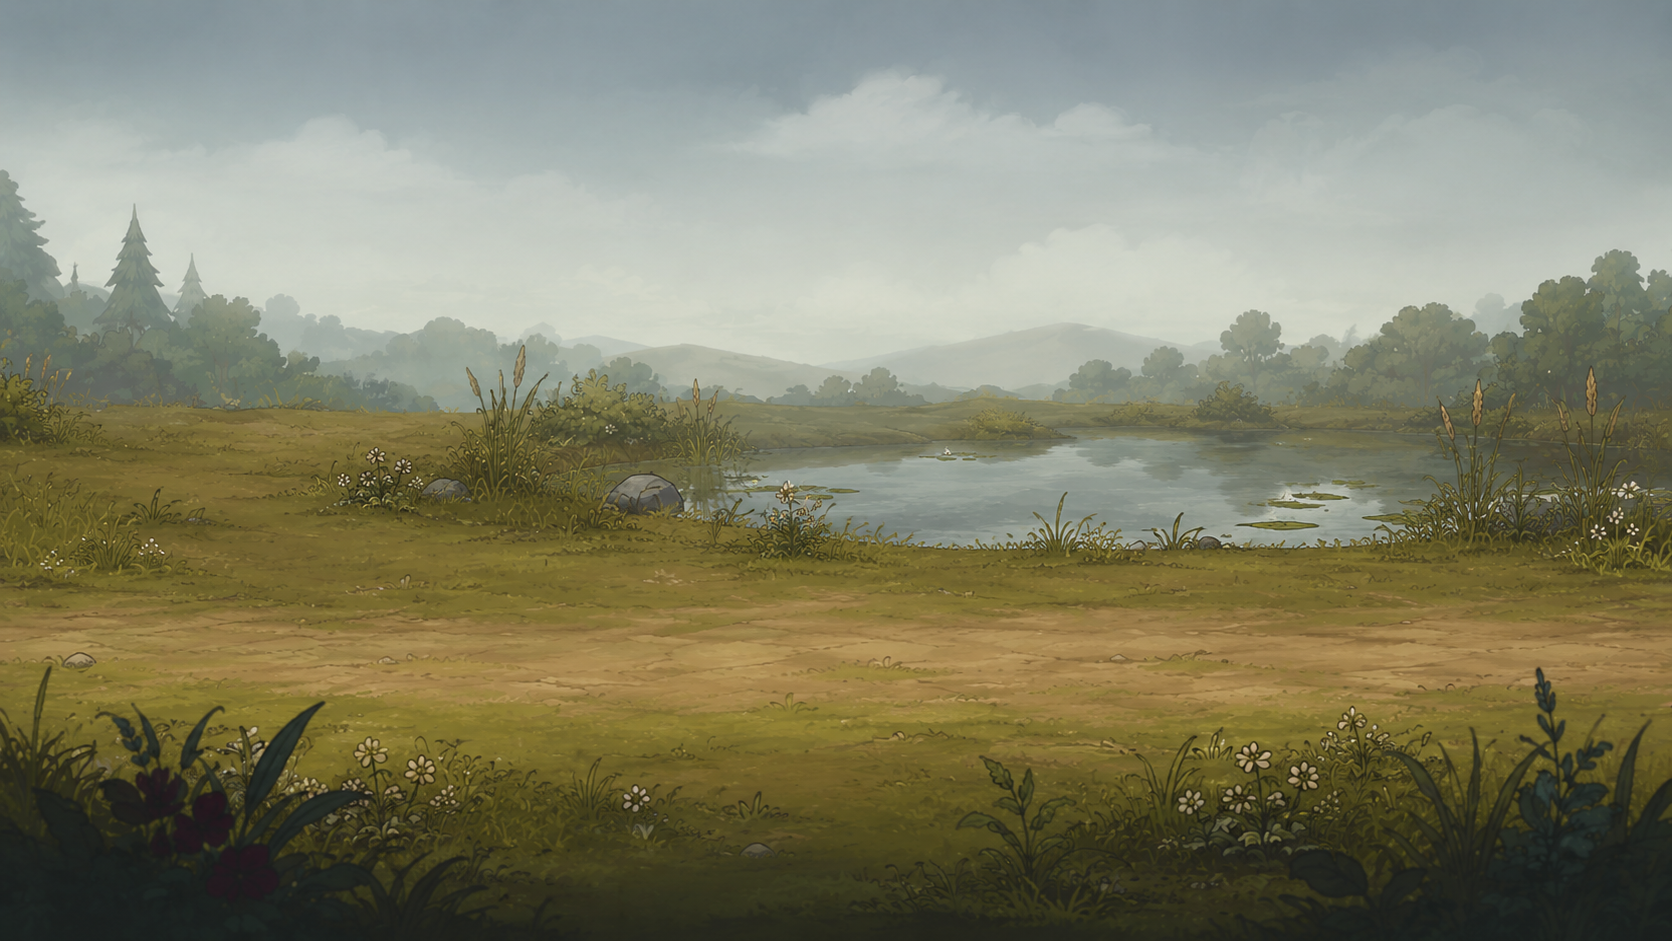
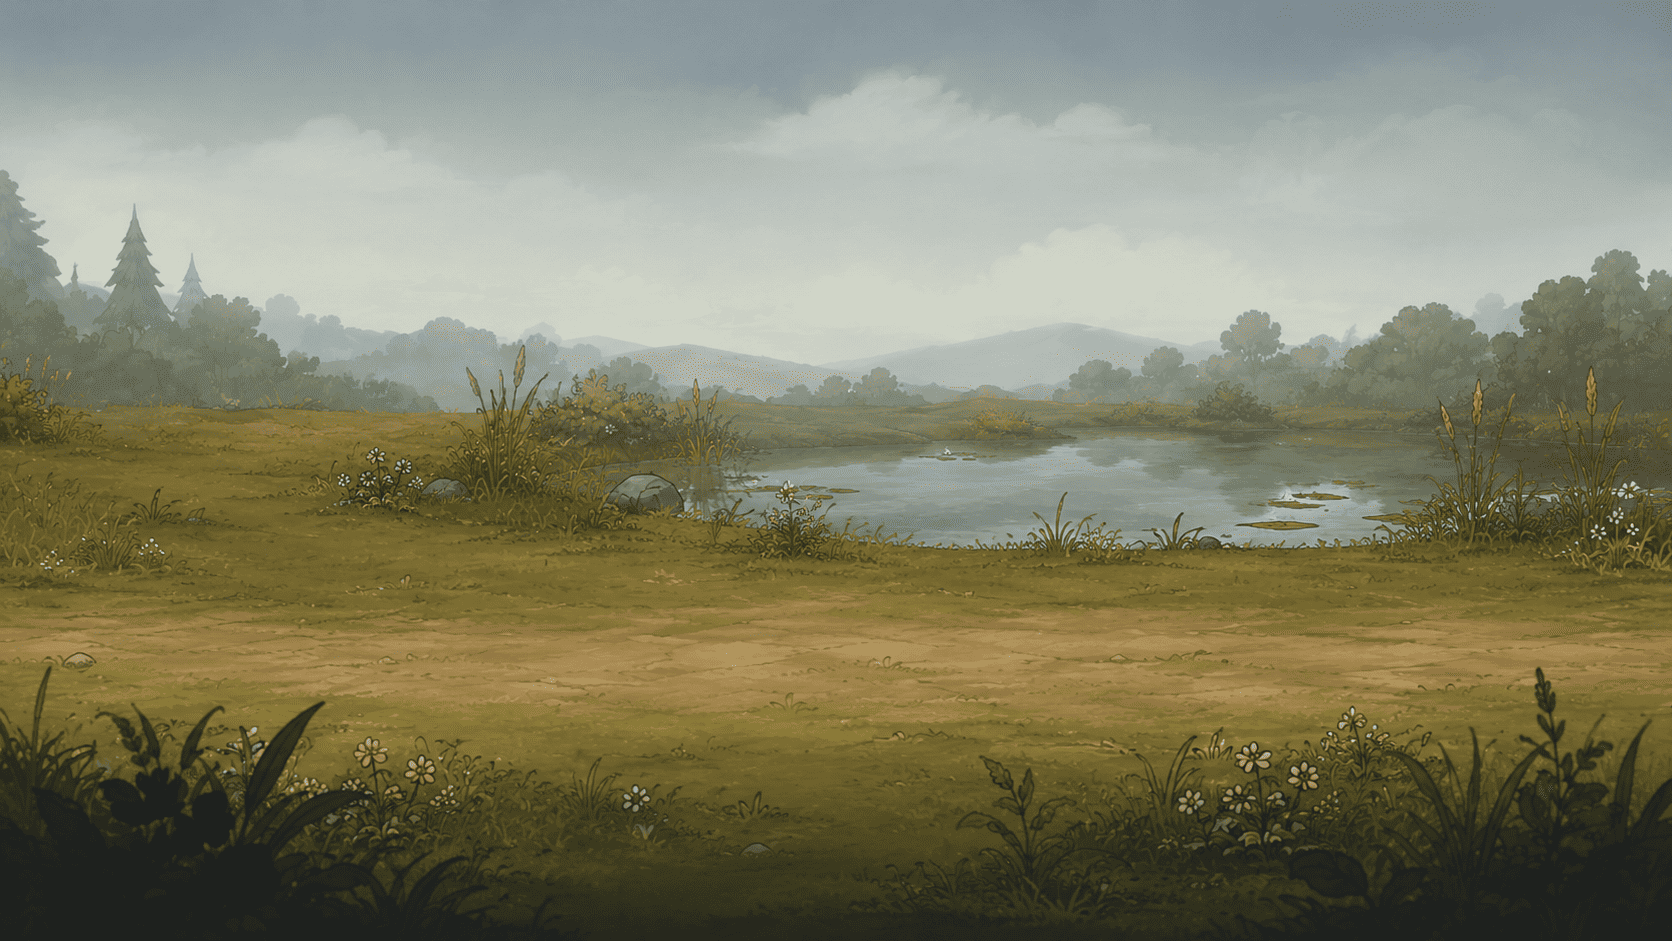
タイトル画像を追加

diff --git a/survival-game/style.css b/survival-game/style.css
@@ -1096,6 +1096,44 @@ h2 {
   margin-bottom: 28px;
 }
 
+/* =========================================================
+   タイトル画面
+========================================================= */
+.title-card {
+  width: min(960px, 96vw);
+  padding: 16px 16px 24px;
+
+  background: rgba(18, 16, 13, 0.78);
+
+  border: 1px solid #6b5a3d;
+  border-radius: 18px;
+
+  box-shadow:
+    0 12px 40px rgba(0, 0, 0, 0.45);
+
+  display: flex;
+  flex-direction: column;
+  align-items: center;
+}
+
+.title-main-visual {
+  width: 100%;
+  max-width: 920px;
+  height: auto;
+
+  display: block;
+  object-fit: contain;
+
+  border-radius: 12px;
+
+  box-shadow:
+    0 8px 24px rgba(0, 0, 0, 0.35);
+}
+
+.title-start-btn {
+  margin-top: 18px;
+  min-width: 160px;
+}
 
 /* =========================================================
    ボタン

diff --git a/survival-game/index.html b/survival-game/index.html
@@ -20,17 +20,17 @@
 
   <div id="title" class="start-screen">
 
-    <div class="start-card">
+    <div class="start-card title-card">
 
-      <h1>HEX SURVIVAL</h1>
-
-      <p>
-        ゲートを探して、生き延びろ。
-      </p>
+      <img
+        src="images/UI/title_screen.png"
+        alt="Still Alive, Probably"
+        class="title-main-visual"
+      >
 
       <button
         id="start"
-        class="primary-btn"
+        class="primary-btn title-start-btn"
       >
         START
       </button>
@@ -38,7 +38,6 @@
     </div>
 
   </div>
-
 
   <!-- =====================================================
        ゲーム本体
